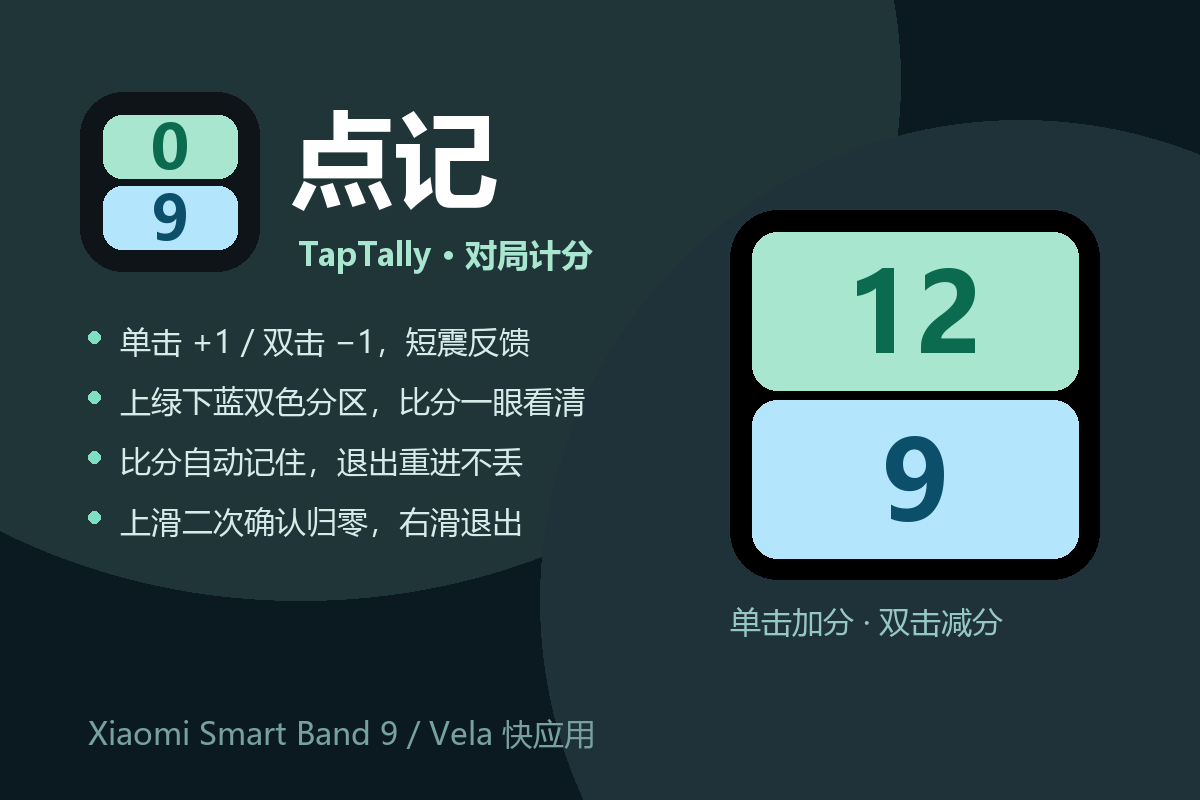
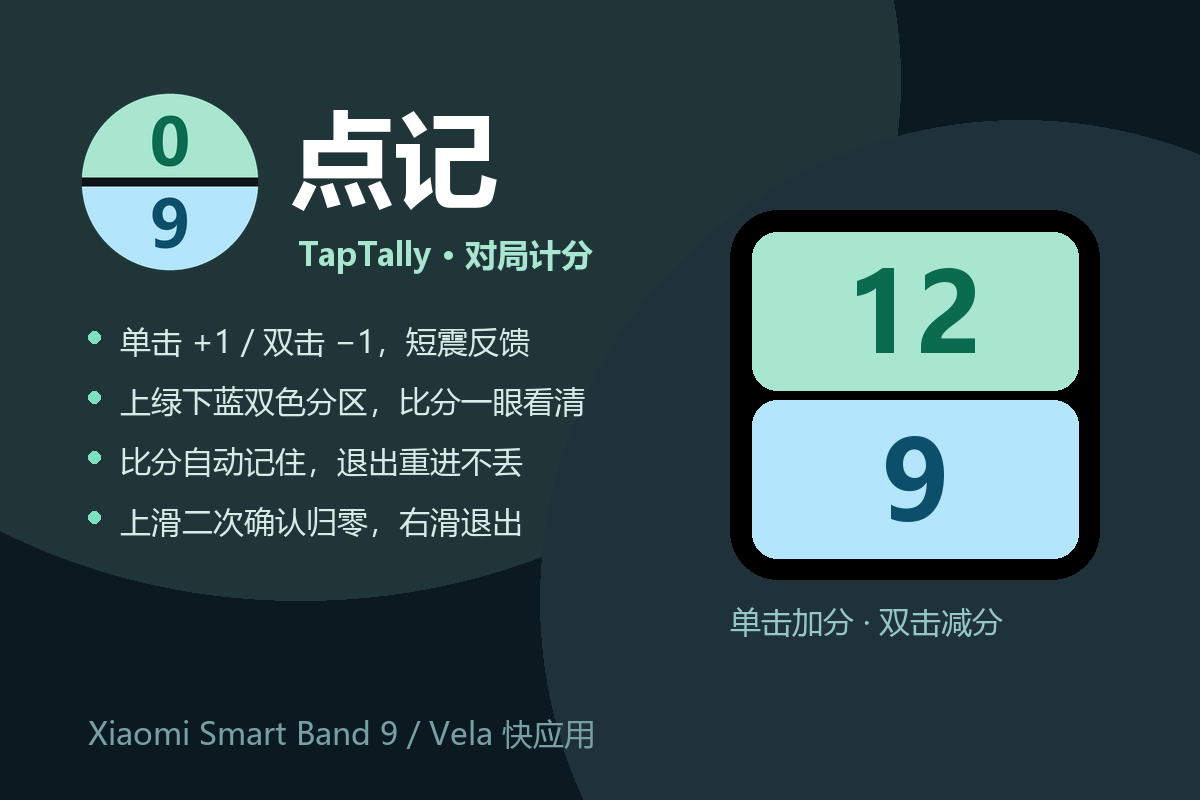
fix: 圆形图标（手环 9 应用图标为圆形裁切）+ 1.1.1
- make_logo 改为整圆上绿下蓝、内容全部落在圆形安全区内
- media/icon.png 192x192 同步更新，cover 重新生成
- versionName 1.1.1 / versionCode 4

Changed region(s): [[0.0617, 0.0938, 0.2158, 0.3438]]

diff --git a/publish/gen_assets.py b/publish/gen_assets.py
@@ -32,27 +32,35 @@ def rounded(size, radius, fill):
     return img
 
 
-def make_logo(size):
-    """深色圆角底 + 上半浅绿 0 / 下半浅蓝 9。"""
-    S = size
-    img = rounded(S, int(S * 0.24), DARK)
-    d = ImageDraw.Draw(img)
-    pad = int(S * 0.13)
-    gap = max(1, int(S * 0.035))
-    r = int(S * 0.11)
-    top = [pad, pad, S - pad, S // 2 - gap // 2 - 1]
-    bot = [pad, S // 2 + gap // 2 + 1, S - pad, S - pad]
-    d.rounded_rectangle(top, radius=r, fill=GREEN)
-    d.rounded_rectangle(bot, radius=r, fill=BLUE)
+def make_logo(size, ss=4):
+    """圆形图标：整圆上绿下蓝、中间深色分隔，圆形安全区内放 0 / 9。
 
-    font = ImageFont.truetype(FONT_B, int(S * 0.34))
-    for txt, box, color in (("0", top, GREEN_TXT), ("9", bot, BLUE_TXT)):
+    手环 9 的应用图标是圆形裁切的，所以图形必须自己就是圆形，
+    并且所有内容都落在圆内（直径上留 ~6% 边距），裁切后不会缺角。
+    """
+    S = size * ss
+    inner = Image.new("RGBA", (S, S), (0, 0, 0, 0))
+    di = ImageDraw.Draw(inner)
+    gap = max(2, int(S * 0.048))
+    di.rectangle([0, 0, S, S // 2 - gap // 2], fill=GREEN)
+    di.rectangle([0, S // 2 + gap // 2, S, S], fill=BLUE)
+    di.rectangle([0, S // 2 - gap // 2 - 1, S, S // 2 + gap // 2], fill=(14, 20, 24, 255))
+
+    mask = Image.new("L", (S, S), 0)
+    pad = int(S * 0.01)
+    ImageDraw.Draw(mask).ellipse([pad, pad, S - 1 - pad, S - 1 - pad], fill=255)
+    img = Image.new("RGBA", (S, S), (0, 0, 0, 0))
+    img.paste(inner, (0, 0), mask)
+
+    d = ImageDraw.Draw(img)
+    font = ImageFont.truetype(FONT_B, int(S * 0.365))
+    for txt, cy, color in (("0", 0.272, GREEN_TXT), ("9", 0.728, BLUE_TXT)):
         bb = d.textbbox((0, 0), txt, font=font)
         w, h = bb[2] - bb[0], bb[3] - bb[1]
-        cx = (box[0] + box[2]) / 2 - w / 2 - bb[0]
-        cy = (box[1] + box[3]) / 2 - h / 2 - bb[1]
-        d.text((cx, cy), txt, font=font, fill=color)
-    return img
+        x = (S - w) / 2 - bb[0]
+        y = S * cy - h / 2 - bb[1]
+        d.text((x, y), txt, font=font, fill=color)
+    return img.resize((size, size), Image.LANCZOS)
 
 
 def band_mock(W, H):

diff --git a/publish/gen_logo_preview.py b/publish/gen_logo_preview.py
@@ -1,0 +1,50 @@
+# -*- coding: utf-8 -*-
+"""图标预览：各尺寸落在手环深色背景上，并模拟圆形裁切，检查裁切后是否缺角。"""
+import os
+from PIL import Image, ImageDraw
+import gen_assets as ga
+
+HERE = os.path.dirname(os.path.abspath(__file__))
+OUT = os.path.join(HERE, "logo-preview.png")
+
+
+def circle_crop(img):
+    S = img.size[0]
+    mask = Image.new("L", (S, S), 0)
+    ImageDraw.Draw(mask).ellipse([0, 0, S - 1, S - 1], fill=255)
+    out = Image.new("RGBA", (S, S), (0, 0, 0, 0))
+    out.paste(img, (0, 0), mask)
+    return out
+
+
+def main():
+    sizes = [192, 120, 96, 64, 44]
+    W, H = 900, 420
+    img = Image.new("RGB", (W, H), (8, 12, 16))
+    d = ImageDraw.Draw(img)
+    d.text((28, 18), "Band 9 circular icon check", fill=(150, 200, 200))
+    x = 40
+    for s in sizes:
+        logo = ga.make_logo(s)
+        img.paste(circle_crop(logo), (x, 70), circle_crop(logo))
+        d.text((x, 70 + s + 10), "%dpx" % s, fill=(120, 170, 170))
+        x += s + 44
+    # 右半：浅色背景对照
+    light = Image.new("RGB", (W, 200), (238, 244, 246))
+    dl = ImageDraw.Draw(light)
+    x = 40
+    for s in (96, 64, 44):
+        logo = ga.make_logo(s)
+        light.paste(circle_crop(logo), (x, 60), circle_crop(logo))
+        dl.text((x, 60 + s + 8), "%dpx" % s, fill=(90, 120, 130))
+        x += s + 50
+    dl.text((440, 18), "on light background", fill=(90, 120, 130))
+    canvas = Image.new("RGB", (W, H + 200), (8, 12, 16))
+    canvas.paste(img, (0, 0))
+    canvas.paste(light, (0, H))
+    canvas.save(OUT)
+    print("wrote", OUT, canvas.size)
+
+
+if __name__ == "__main__":
+    main()
